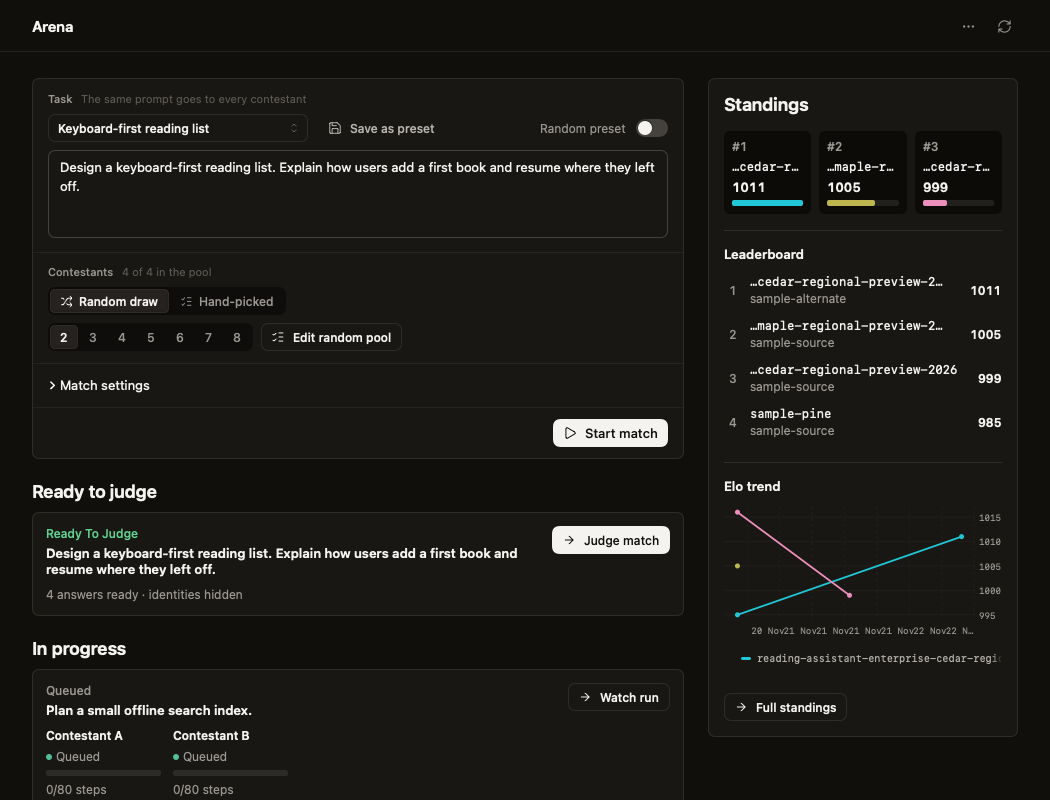
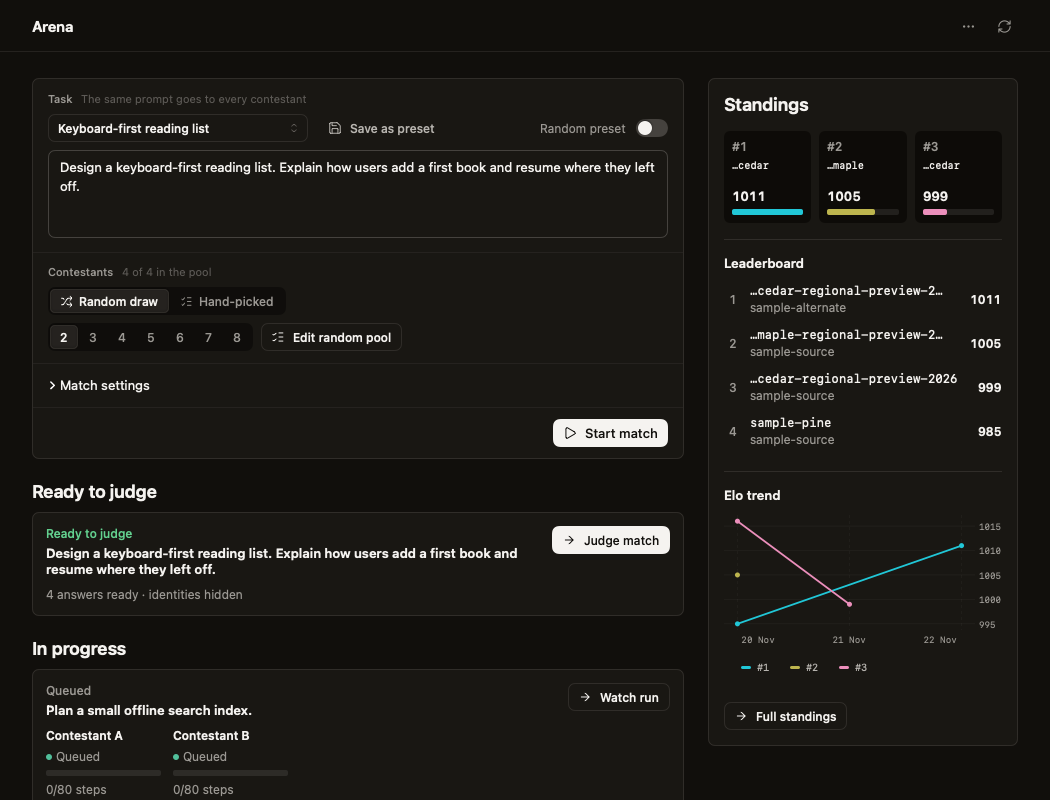
Polish Arena names and Elo trend labels

diff --git a/native/swift/Sources/UniApi/NativeArenaStandingsPreview.swift b/native/swift/Sources/UniApi/NativeArenaStandingsPreview.swift
@@ -20,12 +20,16 @@ struct NativeArenaStandingsPreview: View {
                     } else {
                         let series = chartSeries
                         let dates = series.flatMap { $0.points.map(\.x) }
-                        let span = (dates.max() ?? 0) - (dates.min() ?? 0)
+                        let first = Date(timeIntervalSince1970: (dates.min() ?? 0) / 1000)
+                        let last = Date(timeIntervalSince1970: (dates.max() ?? 0) / 1000)
+                        let sameDay = Calendar.current.isDate(first, inSameDayAs: last)
+                        let format: (Double) -> String = { timestamp in
+                            let date = Date(timeIntervalSince1970: timestamp / 1000)
+                            return sameDay ? date.formatted(date: .omitted, time: .shortened) : date.formatted(.dateTime.month(.abbreviated).day())
+                        }
                         NativeLineChart(series: series, height: 130, monotone: false, includeZero: false,
-                            xFormat: {
-                                let date = Date(timeIntervalSince1970: $0 / 1000)
-                                return span < 86_400_000 ? date.formatted(date: .omitted, time: .shortened) : date.formatted(.dateTime.month(.abbreviated).day())
-                            }, yFormat: { String(format: "%.0f", $0) })
+                            xFormat: format, yFormat: { String(format: "%.0f", $0) },
+                            xTicks: { ArenaPresentationPolicy.trendTicks($0, label: format) }, legend: trendLegend(series))
                             .nativeEntrance(.growVertical)
                     }
                 }
@@ -38,14 +42,16 @@ struct NativeArenaStandingsPreview: View {
 
     private var podium: some View {
         let top = Array(rows.prefix(3))
-        let names = ArenaPresentationPolicy.compactModelNames(top.map { $0["model"].string })
+        let names = ArenaPresentationPolicy.compactModelNames(top.map { $0["model"].string }, trimSharedSuffix: true)
         return HStack(alignment: .bottom, spacing: 8) {
             ForEach(top.indices, id: \.self) { index in
                 let row = top[index], key = row["key"].string
                 let label = row["model"].string
                 VStack(alignment: .leading, spacing: 5) {
                     Text("#\(index + 1)").font(Theme.num(Theme.textXs, weight: .semibold)).foregroundStyle(Theme.muted)
-                    Text(names[label] ?? label).font(Theme.mono(Theme.textXs)).lineLimit(1).truncationMode(names[label] == nil ? .middle : .tail)
+                    Text(names[label] ?? label).font(Theme.mono(10))
+                        .lineLimit(2, reservesSpace: true).truncationMode(names[label] == nil ? .middle : .tail)
+                        .accessibilityLabel(label)
                     NativeNumberText(text: row["elo"].string, font: Theme.num(Theme.textSm, weight: .semibold))
                     NativeGrowBar(fraction: Double(top.count - index) / Double(top.count), color: Theme.pairColor(key), delay: Double(index) * NativeMotion.stagger)
                         .accessibilityHidden(true)
@@ -79,6 +85,13 @@ struct NativeArenaStandingsPreview: View {
         trend.map { series in
             let points = series["points"].array.map { NativeChartPoint(x: $0["ts"].double, y: $0["elo"].double) }
             return NativeChartSeries(id: series["key"].string, label: "\(series["model"].string) · \(series["route"].string)", points: points)
+        }
+    }
+
+    private func trendLegend(_ series: [NativeChartSeries]) -> [NativeLegendEntry] {
+        rows.prefix(3).enumerated().compactMap { index, row in
+            guard let line = series.first(where: { $0.id == row["key"].string }) else { return nil }
+            return NativeLegendEntry(id: line.id, label: "#\(index + 1)", color: line.color, detail: line.label)
         }
     }
 }

diff --git a/native/swift/Sources/UniApi/NativeCharts.swift b/native/swift/Sources/UniApi/NativeCharts.swift
@@ -144,6 +144,7 @@ struct NativeLegendEntry: Identifiable {
     var id: String
     var label: String
     var color: Color
+    var detail: String? = nil
 }
 
 struct NativeChartLegend: View {
@@ -170,7 +171,8 @@ struct NativeChartLegend: View {
                 }
                 .buttonStyle(.plain).pointingHand()
                 .accessibilityAddTraits(selected ? [.isSelected] : [])
-                .help(selected ? "Show every series" : "Show only " + entry.label)
+                .accessibilityLabel(entry.detail ?? entry.label)
+                .help(selected ? "Show every series" : "Show only " + (entry.detail ?? entry.label))
             }
         }
         .animation(reduceMotion ? nil : .easeOut(duration: 0.2), value: selection)
@@ -268,6 +270,8 @@ struct NativeLineChart: View {
     var focus: String? = nil
     var xFormat: (Double) -> String = NativeNumberFormat.compact
     var yFormat: (Double) -> String = NativeNumberFormat.compact
+    var xTicks: (([Double]) -> [Double])? = nil
+    var legend: [NativeLegendEntry]? = nil
     @State private var picked: String?
     @Environment(\.nativeReducedMotion) private var reduceMotion
     @Environment(\.nativeMotionVisible) private var visible
@@ -289,7 +293,7 @@ struct NativeLineChart: View {
             }
             // With a series chosen outside, that choice is the only control: no legend to click.
             if focus == nil {
-                NativeChartLegend(entries: series.map { NativeLegendEntry(id: $0.id, label: $0.label, color: $0.color) }, selection: $picked)
+                NativeChartLegend(entries: legend ?? series.map { NativeLegendEntry(id: $0.id, label: $0.label, color: $0.color) }, selection: $picked)
             }
         }
         .onChange(of: series) {
@@ -317,10 +321,24 @@ struct NativeLineChart: View {
         .chartXScale(domain: NativeChartMath.domain(points.map(\.x), includeZero: false))
         .chartYScale(domain: yDomain)
         .chartXAxis {
-            AxisMarks(values: .automatic(desiredCount: 6)) { value in
-                AxisGridLine().foregroundStyle(Theme.grid)
-                AxisValueLabel {
-                    if let x = value.as(Double.self) { Text(xFormat(x)).font(Theme.mono(9)).foregroundStyle(Theme.muted) }
+            if let xTicks {
+                let ticks = xTicks(points.map(\.x))
+                AxisMarks(values: ticks) { value in
+                    AxisGridLine().foregroundStyle(Theme.grid)
+                    if let x = value.as(Double.self) {
+                        let anchor: UnitPoint = ticks.count == 1 ? .top : value.index == 0 ? .topLeading
+                            : value.index == ticks.count - 1 ? .topTrailing : .top
+                        AxisValueLabel(centered: false, anchor: anchor, collisionResolution: .disabled) {
+                            Text(xFormat(x)).font(Theme.mono(9)).foregroundStyle(Theme.muted).fixedSize()
+                        }
+                    }
+                }
+            } else {
+                AxisMarks(values: .automatic(desiredCount: 6)) { value in
+                    AxisGridLine().foregroundStyle(Theme.grid)
+                    AxisValueLabel {
+                        if let x = value.as(Double.self) { Text(xFormat(x)).font(Theme.mono(9)).foregroundStyle(Theme.muted) }
+                    }
                 }
             }
         }

diff --git a/native/swift/Sources/UniApiCore/ArenaPresentationPolicy.swift b/native/swift/Sources/UniApiCore/ArenaPresentationPolicy.swift
@@ -107,7 +107,7 @@ public enum ArenaPresentationPolicy {
             match["slots"].array.contains { $0["revealed"].bool && $0["model"].string.localizedCaseInsensitiveContains(term) }
     }
 
-    public static func compactModelNames(_ models: [String]) -> [String: String] {
+    public static func compactModelNames(_ models: [String], trimSharedSuffix: Bool = false) -> [String: String] {
         let fullNames = Set(models)
         let names = fullNames.sorted()
         let minimumSharedPrefix = 12
@@ -122,7 +122,29 @@ public enum ArenaPresentationPolicy {
             }
         }
         let labelCounts = compact.values.reduce(into: [String: Int]()) { $0[$1, default: 0] += 1 }
-        return compact.filter { labelCounts[$0.value] == 1 && !fullNames.contains($0.value) }
+        let unique = compact.filter { labelCounts[$0.value] == 1 && !fullNames.contains($0.value) }
+        guard trimSharedSuffix, unique.count > 1 else { return unique }
+        let reversed = unique.values.map { String($0.reversed()) }
+        let suffix = reversed.dropFirst().reduce(reversed[0]) { $0.commonPrefix(with: $1) }
+        guard let separator = suffix.lastIndex(of: "-") else { return unique }
+        let length = suffix.distance(from: suffix.startIndex, to: separator) + 1
+        let shortened = unique.mapValues { String($0.dropLast(length)) }
+        guard shortened.values.allSatisfy({ $0.count > 1 && !fullNames.contains($0) }),
+              Set(shortened.values).count == shortened.count else { return unique }
+        return shortened
+    }
+
+    public static func trendTicks(_ timestamps: [Double], label: (Double) -> String) -> [Double] {
+        let values = timestamps.filter(\.isFinite).sorted()
+        guard let first = values.first, let last = values.last else { return [] }
+        let firstLabel = label(first), lastLabel = label(last)
+        guard firstLabel != lastLabel else { return [first] }
+        let spacing = (last - first) / 3
+        let midpoint = first + (last - first) / 2
+        let middle = values.filter {
+            $0 - first >= spacing && last - $0 >= spacing && label($0) != firstLabel && label($0) != lastLabel
+        }.min { abs($0 - midpoint) < abs($1 - midpoint) }
+        return middle.map { [first, $0, last] } ?? [first, last]
     }
 
     /// Advance in the displayed order, wrapping after the last eligible match.

diff --git a/native/swift/Sources/UniApi/NativeArenaMatch.swift b/native/swift/Sources/UniApi/NativeArenaMatch.swift
@@ -173,7 +173,7 @@ struct NativeArenaMatch: View {
             let a = rank[ArenaContestantPolicy.key($0)] ?? Int.max, b = rank[ArenaContestantPolicy.key($1)] ?? Int.max
             return a == b ? $0["idx"].int < $1["idx"].int : a < b
         }
-        let names = compactNames
+        let names = ArenaPresentationPolicy.compactModelNames(slots.map { $0["model"].string }, trimSharedSuffix: true)
         return VStack(alignment: .leading, spacing: 8) {
             Text(match["verdict"].isNull ? "Contestants revealed" : match["verdict"].string.replacingOccurrences(of: "_", with: " ").capitalized)
                 .font(Theme.ui(18, weight: .semibold)).accessibilityAddTraits(.isHeader)
@@ -192,9 +192,10 @@ struct NativeArenaMatch: View {
                                 }
                             }
                             Text(names[name] ?? name).font(Theme.mono(Theme.textSm))
-                                .truncationMode(names[name] == nil ? .middle : .tail).accessibilityLabel(name)
-                            Text(slot["route"].string).foregroundStyle(Theme.muted)
-                        }.lineLimit(1).padding(10).frame(width: 218, alignment: .leading)
+                                .lineLimit(2, reservesSpace: true).truncationMode(names[name] == nil ? .middle : .tail)
+                                .accessibilityLabel(name)
+                            Text(slot["route"].string).foregroundStyle(Theme.muted).lineLimit(1)
+                        }.padding(10).frame(width: 218, alignment: .leading)
                             .background(Theme.surface, in: RoundedRectangle(cornerRadius: Theme.radiusMd))
                             .help("\(slot["label"].string) · \(slot["model"].string) · \(slot["route"].string)")
                             .accessibilityElement(children: .combine)

diff --git a/native/swift/Tests/UniApiCoreTests/ArenaMatrixTests.swift b/native/swift/Tests/UniApiCoreTests/ArenaMatrixTests.swift
@@ -22,6 +22,25 @@ final class ArenaMatrixTests: XCTestCase {
         ])
     }
 
+    func testCompactCardNamesRemoveSharedSuffixWithoutCollidingWithFullNames() {
+        let cedar = "reading-assistant-enterprise-cedar-regional-preview-2026"
+        let maple = "reading-assistant-enterprise-maple-regional-preview-2026"
+        XCTAssertEqual(ArenaPresentationPolicy.compactModelNames([maple, cedar, cedar], trimSharedSuffix: true), [
+            cedar: "…cedar", maple: "…maple"
+        ])
+        XCTAssertEqual(ArenaPresentationPolicy.compactModelNames([maple, cedar, "…cedar"], trimSharedSuffix: true), [
+            cedar: "…cedar-regional-preview-2026", maple: "…maple-regional-preview-2026"
+        ])
+    }
+
+    func testTrendTicksDeduplicateLabelsAndKeepRoomBetweenThem() {
+        let day: (Double) -> String = { String(Int($0 / 10)) }
+        XCTAssertEqual(ArenaPresentationPolicy.trendTicks([30, 0, 12, 12, 1, 29], label: day), [0, 12, 30])
+        XCTAssertEqual(ArenaPresentationPolicy.trendTicks([0, 1, 2, 19, 30], label: day), [0, 19, 30])
+        XCTAssertEqual(ArenaPresentationPolicy.trendTicks([0, 1, 2, 29, 30], label: day), [0, 30])
+        XCTAssertEqual(ArenaPresentationPolicy.trendTicks([0, 1, 2], label: day), [0])
+    }
+
     func testScopeDrawsMissingPairsAndDirectionFollowLedgerOutcomes() {
         func slot(_ model: String, _ rank: JSONValue, status: JSONValue = "done") -> JSONValue {
             ["model": .string(model), "route": "route", "status": status, "rank": rank]

diff --git a/native/swift/Sources/UniApi/NativeArenaLive.swift b/native/swift/Sources/UniApi/NativeArenaLive.swift
@@ -12,7 +12,7 @@ struct NativeArenaRunCard: View {
         VStack(alignment: .leading, spacing: 10) {
             HStack(alignment: .top, spacing: 12) {
                 VStack(alignment: .leading, spacing: 4) {
-                    Text(ArenaPresentationPolicy.matchStatus(match).capitalized)
+                    Text(ready ? ArenaMatchSelection.JudgeGroup.ready.title : ArenaPresentationPolicy.matchStatus(match).capitalized)
                         .font(Theme.ui(Theme.textXs, weight: .medium)).foregroundStyle(ready ? Theme.okFg : Theme.muted)
                     Text(match["prompt"].string).font(Theme.ui(Theme.textSm, weight: .semibold)).lineLimit(2)
                 }.frame(maxWidth: .infinity, alignment: .leading)
